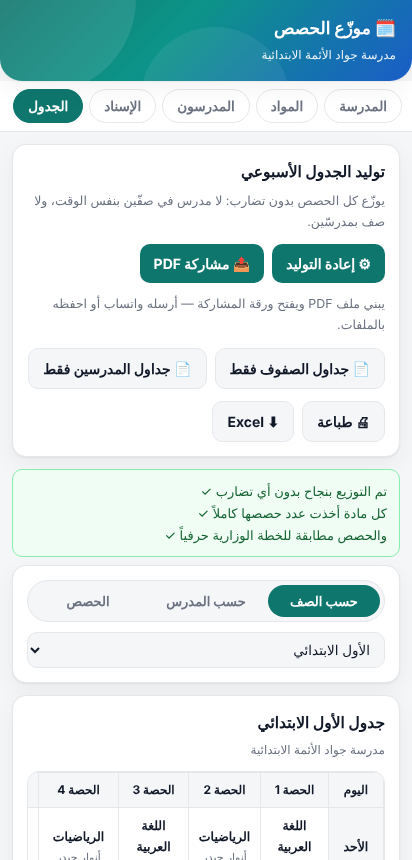
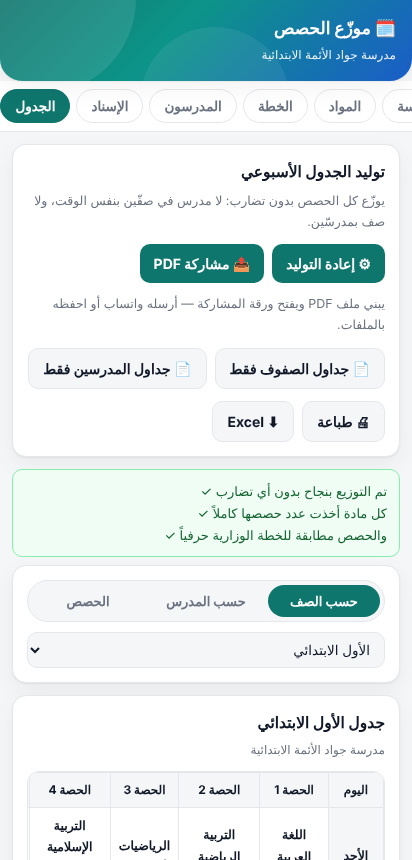
Add files via upload

diff --git a/index.html b/index.html
@@ -125,16 +125,50 @@ details[open] summary{border-bottom:1px solid var(--line)}
 .seg{display:flex;gap:6px;background:var(--bg);padding:4px;border-radius:999px;border:1px solid var(--line);margin-bottom:10px}
 .seg button{flex:1;border:0;background:transparent;color:var(--muted);font-weight:700;font-size:13px;padding:8px;border-radius:999px;font-family:inherit}
 .seg button.on{background:var(--brand);color:#fff}
+/* زر حذف واضح بدل علامة ✕ */
+.del{display:inline-flex;align-items:center;gap:6px;border:1px solid var(--line);background:transparent;
+  color:var(--danger);font-family:inherit;font-size:12.5px;font-weight:700;padding:8px 12px;
+  border-radius:999px;cursor:pointer;min-height:38px;white-space:nowrap}
+.del:active{background:rgba(185,28,28,.08)}
+.del svg{width:14px;height:14px;fill:none;stroke:currentColor;stroke-width:2;stroke-linecap:round;stroke-linejoin:round}
+.fieldlbl{font-size:11.5px;color:var(--muted);font-weight:600;margin-bottom:4px;display:block}
+/* بطاقة مدرس */
+.thead{display:flex;gap:10px;align-items:flex-start}
+.avatar{flex:0 0 42px;width:42px;height:42px;border-radius:50%;display:grid;place-items:center;
+  color:#fff;font-weight:800;font-size:15px;margin-top:18px}
+.tfoot{display:flex;justify-content:space-between;align-items:center;gap:8px;
+  margin-top:10px;padding-top:10px;border-top:1px dashed var(--line)}
+.loadbig{font-size:13px;font-weight:800;color:var(--brand)}
+/* شريط إحصاءات */
+.stats{display:flex;gap:8px;margin-bottom:12px}
+.stat{flex:1;background:var(--card);border:1px solid var(--line);border-radius:12px;
+  padding:10px 8px;text-align:center;box-shadow:var(--shadow)}
+.stat b{display:block;font-size:19px;color:var(--brand);line-height:1.3}
+.stat span{font-size:11px;color:var(--muted)}
+/* بحث */
+.srch{position:relative;margin-top:10px}
+.srch input{padding-right:34px}
+.srch::before{content:'🔎';position:absolute;right:11px;top:50%;transform:translateY(-50%);font-size:13px;opacity:.6}
+/* إشعار سريع */
+.toast{position:fixed;left:50%;transform:translateX(-50%);bottom:calc(env(safe-area-inset-bottom) + 24px);
+  z-index:120;background:#111827;color:#fff;padding:11px 18px;border-radius:999px;font-size:13.5px;
+  font-weight:600;box-shadow:0 8px 30px rgba(0,0,0,.3);opacity:0;transition:opacity .2s,bottom .2s;
+  max-width:90vw;text-align:center}
+.toast.on{opacity:1;bottom:calc(env(safe-area-inset-bottom) + 34px)}
+@media(prefers-color-scheme:dark){.toast{background:#e8edf5;color:#0b1220}}
 .dayp{display:flex;gap:6px;flex-wrap:wrap;margin-top:6px}
 .dayp>div{flex:1 1 86px;text-align:center;border:1px solid var(--line);border-radius:10px;padding:6px 4px;background:var(--bg)}
 .dayp span{display:block;font-size:11.5px;color:var(--muted);margin-bottom:4px}
 .dayp input{padding:7px 4px;text-align:center;font-weight:700;background:var(--card)}
 td.off{background:var(--line);opacity:.45}
 .ovl{position:fixed;inset:0;z-index:100;background:rgba(0,0,0,.5);display:flex;align-items:center;justify-content:center;padding:22px}
-.ovl .box{background:var(--card);border:1px solid var(--line);border-radius:16px;padding:18px 16px;width:100%;max-width:360px;box-shadow:var(--shadow)}
-.ovl p{margin:0 0 14px;font-size:14.5px;line-height:1.8;white-space:pre-wrap}
-.ovl .btns{margin:0}
-.ovl .btns .btn{flex:1}
+.ovl .box{background:var(--card);border:1px solid var(--line);border-radius:18px;padding:20px 18px;width:100%;max-width:370px;box-shadow:0 20px 60px rgba(0,0,0,.35)}
+.ovl .ico{width:46px;height:46px;border-radius:50%;display:grid;place-items:center;font-size:21px;margin:0 auto 12px}
+.ovl h3{margin:0 0 6px;font-size:16.5px;text-align:center}
+.ovl p{margin:0 0 16px;font-size:14px;line-height:1.75;white-space:pre-wrap;text-align:center;color:var(--muted)}
+.ovl .btns{margin:0;flex-direction:column}
+.ovl .btns .btn{width:100%;padding:13px}
+.ovl .btn.danger{background:var(--danger);color:#fff;border:0}
 .welcome{
   position:relative;overflow:hidden;text-align:center;background:#fdf7ee;
   border:1px solid var(--line);border-radius:var(--r);padding:26px 18px;margin-bottom:12px;box-shadow:var(--shadow)
@@ -660,7 +694,7 @@ const SEED={"school":"مدرسة جواد الأئمة الابتدائية","st
 const DEF=()=>({ school:'', stage:'متوسطة', days:['الأحد','الاثنين','الثلاثاء','الأربعاء','الخميس'],
   periodsPerDay:6, dayP:{}, maxSameSubjectPerDay:2, classes:[], plans:{}, teachers:[], assign:{}, result:null });
 let S=DEF();
-let tab='school', view='class', viewIdx=0, secN=0, pStage='ابتدائية', pGrade='';
+let tab='school', view='class', viewIdx=0, secN=0, pStage='ابتدائية', pGrade='', tQuery='';
 
 /* مكتبة المدارس: كل مدرسة محفوظة لحالها ونقدر ننتقل بينها */
 const DBKEY='hesas_db_v1';
@@ -763,21 +797,44 @@ function buildLessons(){
 }
 /* ===================== العرض ===================== */
 /* نافذة تأكيد/تنبيه داخلية — نوافذ المتصفح الجاهزة محجوبة بداخل بعض التطبيقات */
-function modal(msg,isConfirm){
+function modal(msg,kind,opt){
+  opt=opt||{};
+  const danger = kind==='danger';
+  const isConfirm = kind==='danger'||kind==='confirm';
   return new Promise(res=>{
     const o=document.createElement('div'); o.className='ovl';
-    o.innerHTML='<div class="box"><p></p><div class="btns">'
-      +'<button class="btn" data-y>'+(isConfirm?'نعم، تأكيد':'حسناً')+'</button>'
+    const ico = danger?'🗑' : (kind==='confirm'?'❓':'ℹ');
+    const bg  = danger?'background:#fee2e2' : (kind==='confirm'?'background:var(--brand-soft)':'background:var(--brand-soft)');
+    o.innerHTML='<div class="box">'
+      +'<div class="ico" style="'+bg+'">'+ico+'</div>'
+      +'<h3></h3><p></p><div class="btns">'
+      +'<button class="btn'+(danger?' danger':'')+'" data-y>'+(opt.yes||(isConfirm?(danger?'نعم، احذف':'تأكيد'):'حسناً'))+'</button>'
       +(isConfirm?'<button class="btn sec" data-n>إلغاء</button>':'')+'</div></div>';
-    o.querySelector('p').textContent=msg;
+    o.querySelector('h3').textContent = opt.title || (danger?'تأكيد الحذف':(isConfirm?'تأكيد':'تنبيه'));
+    o.querySelector('p').textContent = msg;
     o.addEventListener('click',e=>{
       if(e.target.closest('[data-y]')){ o.remove(); res(true); }
       else if(e.target.closest('[data-n]')||e.target===o){ o.remove(); res(false); }
     });
     document.body.appendChild(o);
+    setTimeout(()=>{ const b=o.querySelector('[data-y]'); if(b) b.focus(); },50);
   });
 }
-const say=m=>modal(m,false), ask=m=>modal(m,true);
+const say  = (m,t)=>modal(m,'info',{title:t});
+const ask  = (m,t)=>modal(m,'confirm',{title:t});
+const askDel = (m,t,yes)=>modal(m,'danger',{title:t||'تأكيد الحذف',yes:yes||'نعم، احذف'});
+
+/* إشعار سريع لا يوقف العمل */
+let _toastT=null;
+function toast(msg){
+  let el=document.getElementById('toastBox');
+  if(!el){ el=document.createElement('div'); el.id='toastBox'; el.className='toast'; document.body.appendChild(el); }
+  el.textContent=msg;
+  requestAnimationFrame(()=>el.classList.add('on'));
+  clearTimeout(_toastT);
+  _toastT=setTimeout(()=>el.classList.remove('on'),2200);
+}
+const TRASH='<svg viewBox="0 0 24 24"><path d="M3 6h18M8 6V4h8v2M19 6l-1 14H6L5 6M10 11v6M14 11v6"/></svg>';
 const app=document.getElementById('app');
 document.getElementById('tabs').addEventListener('click',e=>{
   const b=e.target.closest('button[data-t]'); if(!b) return;
@@ -798,7 +855,13 @@ function render(){
 /* ---------- 1. المدرسة ---------- */
 function viewSchool(){
   const schools=schoolList();
+  const nPer=S.classes.reduce((a,c)=>a+planOf(c.id).reduce((x,r)=>x+(Number(r.periods)||0),0),0);
   app.innerHTML=`
+  ${S.classes.length||S.teachers.length?`<div class="stats">
+    <div class="stat"><b>${S.classes.length}</b><span>صف</span></div>
+    <div class="stat"><b>${S.teachers.length}</b><span>مدرس</span></div>
+    <div class="stat"><b>${nPer}</b><span>حصة أسبوعياً</span></div>
+  </div>`:''}
   ${schools.length>0?`<div class="card">
     <h2>مدارسي <span class="pill">${schools.length}</span></h2>
     <p class="hint">اختر مدرسة محفوظة، أو أنشئ وحدة جديدة. كل مدرسة تحتفظ بصفوفها ومدرسيها وجدولها.</p>
@@ -862,10 +925,11 @@ function viewSchool(){
       ${S.classes.length?S.classes.map(c=>`
         <div class="item"><div class="top">
           <div style="flex:1 1 auto;min-width:0">
+          <span class="fieldlbl">اسم الصف</span>
           <input type="text" value="${esc(c.name)}" data-cn="${c.id}" style="font-weight:700;background:var(--card)">
-          <div class="meta">${planOf(c.id).reduce((a,b)=>a+Number(b.periods||0),0)} / ${cap()} حصة · ${planOf(c.id).length} مادة</div></div>
-          <button class="x" data-del="${c.id}">✕</button>
-        </div></div>`).join(''):'<p class="hint">لا توجد صفوف بعد.</p>'}
+          <div class="meta">${planOf(c.id).reduce((a,b)=>a+Number(b.periods||0),0)} حصة · ${planOf(c.id).length} مادة</div></div>
+          <button class="del" data-del="${c.id}" style="margin-top:18px">${TRASH} حذف</button>
+        </div></div>`).join(''):'<p class="hint">لا توجد صفوف بعد. أضف صفاً من الأعلى.</p>'}
     </div>
   </div>
 
@@ -917,10 +981,12 @@ function viewSchool(){
   app.onclick=(async e=>{
     const d=e.target.closest('[data-del]'); if(!d) return;
     const id=d.dataset.del;
-    if(!await ask('حذف هذا الصف وكل مواده؟')) return;
+    const cc=S.classes.find(x=>x.id===id);
+    if(!await askDel('سيُحذف "'+(cc?cc.name:'الصف')+'" مع خطة مواده. لا يمكن التراجع.','حذف الصف؟')) return;
     S.classes=S.classes.filter(c=>c.id!==id); delete S.plans[id];
     S.teachers.forEach(t=>t.classes=(t.classes||[]).filter(x=>x!==id));
-    S.result=null; render();
+    Object.keys(S.assign).forEach(k=>{ if(k.indexOf(id+'|')===0) delete S.assign[k]; });
+    S.result=null; render(); toast('تم حذف '+(cc?cc.name:'الصف'));
   });
   const sSel=document.getElementById('iSchool');
   if(sSel) sSel.addEventListener('change',e=>gotoSchool(e.target.value));
@@ -929,27 +995,27 @@ function viewSchool(){
   const bCopy=document.getElementById('bCopySchool');
   if(bCopy) bCopy.addEventListener('click',()=>{
     const cp=JSON.parse(JSON.stringify(S)); cp.school=(cp.school||'مدرسة')+' — نسخة'; cp.result=null;
-    newSchool(cp); say('تم إنشاء نسخة. عدّل عليها بحرية والأصل محفوظ.');
+    newSchool(cp); toast('تم إنشاء نسخة — الأصل محفوظ');
   });
   const bSeed=document.getElementById('bSeedSchool');
   if(bSeed) bSeed.addEventListener('click',()=>{
-    newSchool(JSON.parse(JSON.stringify(SEED))); say('تم استرجاع مدرسة جواد الأئمة ✓');
+    newSchool(JSON.parse(JSON.stringify(SEED))); toast('تم استرجاع مدرسة جواد الأئمة');
   });
   const bDel=document.getElementById('bDelSchool');
   if(bDel) bDel.addEventListener('click',async()=>{
-    if(!await ask('حذف مدرسة "'+(S.school||'بلا اسم')+'" وكل بياناتها؟')) return;
+    if(!await askDel('سيُحذف كل ما يخص "'+(S.school||'بلا اسم')+'": صفوفها ومدرسوها وجدولها. لا يمكن التراجع.','حذف المدرسة؟')) return;
     delete DB.schools[DB.active];
     const ids=Object.keys(DB.schools); DB.active=ids[0]||'';
     S=DB.active?Object.assign(DEF(),DB.schools[DB.active]):DEF();
-    saveDB(); secN=0; tab='school'; render(); window.scrollTo(0,0);
+    saveDB(); secN=0; tab='school'; render(); window.scrollTo(0,0); toast('تم حذف المدرسة');
   });
   bind('bExport','click',exportFile);
   bind('bImport','click',()=>document.getElementById('fImport').click());
   bind('fImport','change',importFile);
   bind('bReset','click',async()=>{
-    if(!await ask('راح تنمسح كل المدارس المحفوظة ببياناتها كلها. متأكد؟')) return;
+    if(!await askDel('سيُحذف كل شيء: '+schoolList().length+' مدرسة ببياناتها كاملة. لا يمكن التراجع.\n\nننصحك بتصدير نسخة احتياطية أولاً.','مسح كل المدارس؟','نعم، امسح الكل')) return;
     try{ localStorage.removeItem(KEY); localStorage.removeItem(DBKEY); }catch(e){}
-    DB={active:'',schools:{}}; S=DEF(); secN=0; tab='school'; view='class'; viewIdx=0;
+    DB={active:'',schools:{}}; S=DEF(); secN=0; tab='school'; view='class'; viewIdx=0; tQuery='';
     document.querySelectorAll('#tabs button').forEach(x=>x.classList.toggle('on',x.dataset.t==='school'));
     render(); window.scrollTo(0,0);
   });
@@ -1016,9 +1082,9 @@ function viewPlans(){
     }).join('')}
   </div>`;
   document.getElementById('bTplAll').addEventListener('click',async()=>{
-    if(!await ask('راح ترجع مواد كل الصفوف للقوالب الرسمية وتروح أي تعديلات سويتها. متأكد؟')) return;
+    if(!await ask('ستُستبدل مواد كل الصفوف بالخطة الرسمية، وتضيع أي تعديلات أجريتها عليها.','إرجاع القوالب الرسمية؟')) return;
     S.classes.forEach(c=>{ S.plans[c.id]=tplFor(c.stage,c.grade).map(([subject,periods])=>({subject,periods})); });
-    S.result=null; render();
+    S.result=null; render(); toast('تم إرجاع القوالب الرسمية');
   });
   app.oninput=(e=>{
     const t=e.target; if(!t.dataset.f) return;
@@ -1158,15 +1224,23 @@ function viewTeachers(){
     <h2>المدرسون <span class="pill">${S.teachers.length}</span></h2>
     <p class="hint">حدّد لكل مدرس المواد التي يدرّسها والصفوف التي يدخلها. إذا انتقل مدرس وجاء بديله، بدّل الاسم فقط وتبقى مواده وصفوفه مثل ما هي.</p>
     <div class="btns"><button class="btn" id="bNewT">+ إضافة مدرس</button></div>
+    ${S.teachers.length>5?`<div class="srch"><input type="text" id="tSearch" placeholder="ابحث باسم المدرس أو المادة..." value="${esc(tQuery)}"></div>`:''}
   </div>
   ${!subs.length?'<div class="card"><div class="warn">أضف المواد أولاً من تبويب «المواد» حتى تقدر تختارها للمدرسين.</div></div>':''}
-  ${S.teachers.map((t,ti)=>{
+  ${S.teachers.map((t,ti)=>({t,ti})).filter(({t})=>{
+      const q=tQuery.trim(); if(!q) return true;
+      return (t.name||'').indexOf(q)>-1 || (t.subjects||[]).some(x=>x.indexOf(q)>-1);
+    }).map(({t,ti})=>{
     const load=(tload[t.id]||0);
-    return `<div class="card">
-      <div class="item" style="border:0;padding:0;background:transparent">
-        <div class="top">
+    const hues=[174,201,262,340,24,142,45,300];
+    const hue=hues[ti%hues.length];
+    const ini=String(t.name||'؟').trim().split(/\s+/).slice(0,2).map(w=>w[0]||'').join('');
+    return `<div class="card" data-tcard="${ti}">
+      <div class="thead">
+        <div class="avatar" style="background:hsl(${hue} 55% 42%)">${esc(ini)}</div>
+        <div style="flex:1 1 auto;min-width:0">
+          <span class="fieldlbl">اسم المدرس</span>
           <input type="text" value="${esc(t.name)}" data-tn="${ti}" placeholder="اسم المدرس" style="font-weight:700">
-          <button class="x" data-tdel="${ti}">✕</button>
         </div>
       </div>
       <label>المواد</label>
@@ -1178,13 +1252,30 @@ function viewTeachers(){
       </div>
       <label>أيام عطلته (اختياري)</label>
       <div class="chips">${S.days.map((d,di)=>`<button class="chip ${(t.offDays||[]).indexOf(di)>-1?'on':''}" data-to="${ti}" data-v="${di}">${d}</button>`).join('')}</div>
-      <div class="total"><span>مجموع حصصه الأسبوعية</span><span style="color:var(--brand)">${load} حصة</span></div>
+      <div class="tfoot">
+        <span class="loadbig">${load} حصة أسبوعياً</span>
+        <button class="del" data-tdel="${ti}">${TRASH} حذف المدرس</button>
+      </div>
     </div>`;
   }).join('')}`;
 
+  const sb=document.getElementById('tSearch');
+  if(sb) sb.addEventListener('input',e=>{
+    tQuery=e.target.value;
+    const q=tQuery.trim();
+    app.querySelectorAll('[data-tcard]').forEach(card=>{
+      const i=+card.dataset.tcard, t=S.teachers[i];
+      const hit=!q || (t.name||'').indexOf(q)>-1 || (t.subjects||[]).some(x=>x.indexOf(q)>-1);
+      card.style.display=hit?'':'none';
+    });
+  });
   document.getElementById('bNewT').addEventListener('click',()=>{
     S.teachers.push({id:uid(),name:'مدرس '+(S.teachers.length+1),subjects:[],classes:[],maxPerDay:maxP(),offDays:[]});
-    S.result=null; render();
+    S.result=null; tQuery=''; render();
+    const cards=app.querySelectorAll('[data-tcard]');
+    const last=cards[cards.length-1];
+    if(last){ last.scrollIntoView({behavior:'smooth',block:'center'});
+      const inp=last.querySelector('input[data-tn]'); if(inp){ inp.focus(); inp.select(); } }
   });
   app.oninput=(e=>{
     const t=e.target;
@@ -1196,9 +1287,10 @@ function viewTeachers(){
     const tog=(arr,v)=>{ const i=arr.indexOf(v); i>-1?arr.splice(i,1):arr.push(v); };
     if(b.dataset.tdel!==undefined){
       const tt=S.teachers[+b.dataset.tdel];
-      if(!await ask('حذف "'+(tt?tt.name:'المدرس')+'"؟ المواد المسندة له راح ترجع للتوزيع التلقائي.')) return;
+      if(!await askDel('سيُحذف "'+(tt?tt.name:'المدرس')+'" ومواده المسندة ترجع للتوزيع التلقائي.','حذف المدرس؟')) return;
       if(tt) Object.keys(S.assign).forEach(k=>{ if(S.assign[k]===tt.id) delete S.assign[k]; });
-      S.teachers.splice(+b.dataset.tdel,1); S.result=null; return render();
+      S.teachers.splice(+b.dataset.tdel,1); S.result=null; render();
+      toast('تم حذف '+(tt?tt.name:'المدرس')); return;
     }
     if(b.dataset.ts!==undefined){ const t=S.teachers[+b.dataset.ts]; t.subjects=t.subjects||[]; tog(t.subjects,b.dataset.v); S.result=null; return render(); }
     if(b.dataset.tc!==undefined){ const t=S.teachers[+b.dataset.tc]; t.classes=t.classes||[]; tog(t.classes,b.dataset.v); S.result=null; return render(); }
@@ -1507,7 +1599,7 @@ async function exportSchedule(){
   const nm=slug(S.school||'مدرسة');
   const ok=await saveFile(nm+'-الجدول.csv', ascii(nm,'school')+'-jadwal-'+today()+'.csv',
     csv, 'text/csv;charset=utf-8', true);
-  if(ok) say('تم تصدير الجدول. افتح الملف ببرنامج Excel أو Google Sheets.');
+  if(ok) toast('تم تصدير الجدول بصيغة Excel');
 }
 function importFile(e){
   const f=e.target.files[0]; if(!f) return;
